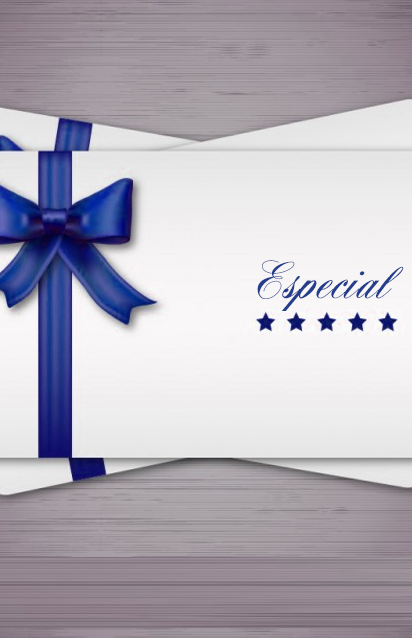
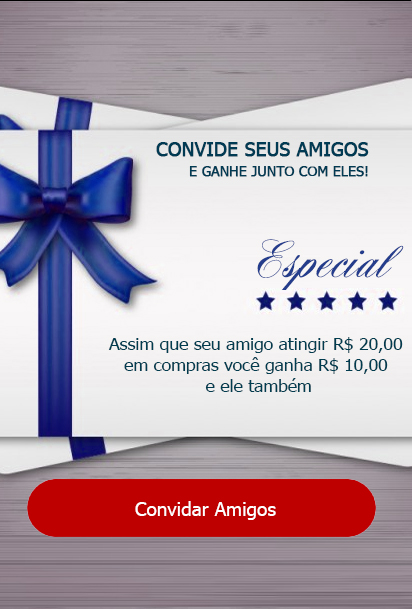
convidar amigo

diff --git a/www/invite-friend.html b/www/invite-friend.html
@@ -1,3 +1,4 @@
+<!--
 <div class="navbar navbar-clear">
     <div class="navbar-inner">
         <div class="left">
@@ -13,10 +14,10 @@
             <a href="#" class="link icon-only" data-panel="right">
                 <span class="kkicon icon-alarm"></span>
             </a>
-            -->
+         
         </div>
     </div>
-</div>
+</div> -->
 
 <div class="pages">
     <div data-page="invite-friend" class="page" id="destino-templateInviteFriend">
@@ -24,19 +25,11 @@
         <!-- Template -->
         <script type="text/template" id="templateInviteFriend">
 
-            <div class="page-content" style="background: url('assets/img/gift.jpg') no-repeat top center!important;">
+
+            <div class="page-content indicar" >
+		<a id="sh" ></a>
                 <div class="content-block mt-10" style="display: block;">
 
-
-                <h1 style="
-                    margin-top: 130px;
-                    text-align: center;
-                    padding: 5px;
-                    font-weight: bold;
-                    font-size: 20px;
-                    padding-left: 140px;">
-                    CONVIDE SEUS AMIGOS <br /> E GANHE JUNTO COM ELES!
-                </h1>
 
                 <h2 style="
                     margin-top: 100px;
@@ -48,11 +41,12 @@
                     padding-left: 85px;">
                     {{data.texto}}
                 </h2>
-
+	
                 <div class="content-block mt-10" style="display: block;">
 
-                    <a href="#" class="button button-primary button-fill" id="btn-convidar-amigos" style="margin: 35px;margin-bottom: 7px;">Convidar Amigos</a>
-                    <div class="text-center">
+                <!--    <a href="#" class="button button-primary button-fill" id="btn-convidar-amigos" style="margin: 35px;margin-bottom: 7px;">Convidar Amigos</a> -->
+			
+                    <div class="text-center regras-convite">
                         <a href="#" id="alert-regras-convite" style="color: #FFF">Veja as regras aqui</a>
                     </div>
 

diff --git a/www/index.html b/www/index.html
@@ -359,7 +359,7 @@
         <!-- iugu remoto -->
         <!-- <script type="text/javascript" src="https://js.iugu.com/v2"></script> -->
         <script type="text/javascript" src="assets/js/formatter.js"></script>
-        <!--<script type="text/javascript" src="cordova.js"></script>-->
+        <script type="text/javascript" src="cordova.js"></script>
         
         <script>
             
@@ -621,6 +621,20 @@
                     $$('a#alert-regras-convite').on('click', function () {
                         myApp.alert(r.regras, 'REGRAS');
                     });
+					//$('.navbar').hide();
+				
+					//Ao clicar na tela convidar amigo abre o aplicativo WhatsApp para compartilhamento
+				   $('#sh').on('click',function(){
+						window.plugins.socialsharing.shareViaWhatsApp(
+							'Use o APP Estalecas e receba seu dinheiro de volta! Cadastre-se agora mesmo e ganhe 20 Reais na sua primeira compra.',
+							'assets/img/logo_estalecas.png', 
+							'https://www.website.com/foo/#bar?a=b'
+						);
+					})
+					
+					
+
+					
                 });
             });
 

diff --git a/www/assets/js/appExt.js b/www/assets/js/appExt.js
@@ -13,13 +13,13 @@ var appConfig = {
     //urlFoto: 'http://localhost/apiestalecas/frontend/web/',
     
     // Eduardo
-    url: 'http://localhost/cashback/frontend/web/index.php?r=',
-    urlFoto: 'http://localhost/cashback/frontend/web/',
+  //  url: 'http://localhost/cashback/frontend/web/index.php?r=',
+   // urlFoto: 'http://localhost/cashback/frontend/web/',
 
     localStorageName: 'esUser',
     back: false,
     backRecarregou: true,
-    topTransparent: ['company', 'main'],
+    topTransparent: ['company', 'main','invite-friend'],
     tabbarBottomShow: ['category', 'main', 'invite-friend', 'cash-out', 'change-password']
 };
 

diff --git a/www/assets/css/app.css b/www/assets/css/app.css
@@ -7121,3 +7121,34 @@ h1 {
 
     height: 22px;
 }
+
+.list-block .item-media+.item-inner {
+    margin-left: 2px;
+}
+
+.list-block .item-inner {
+    padding-top: 0px;
+    padding-bottom: 0px;
+    min-height: 32px;
+}
+
+
+.page-content.indicar #sh {
+    display: block;
+    left: 0px;
+    top: 43px;
+    position: absolute;
+    height: 537px;
+    width: 100%;
+}
+.page-content.indicar {
+    background: url(../img/gift.jpg) top center !important;
+    background-size: contain !important;
+}
+.text-center.regras-convite {
+    position: absolute;
+    top: 0;
+    left: 34%;
+    text-transform: uppercase;
+    font-size: 11px;
+}
